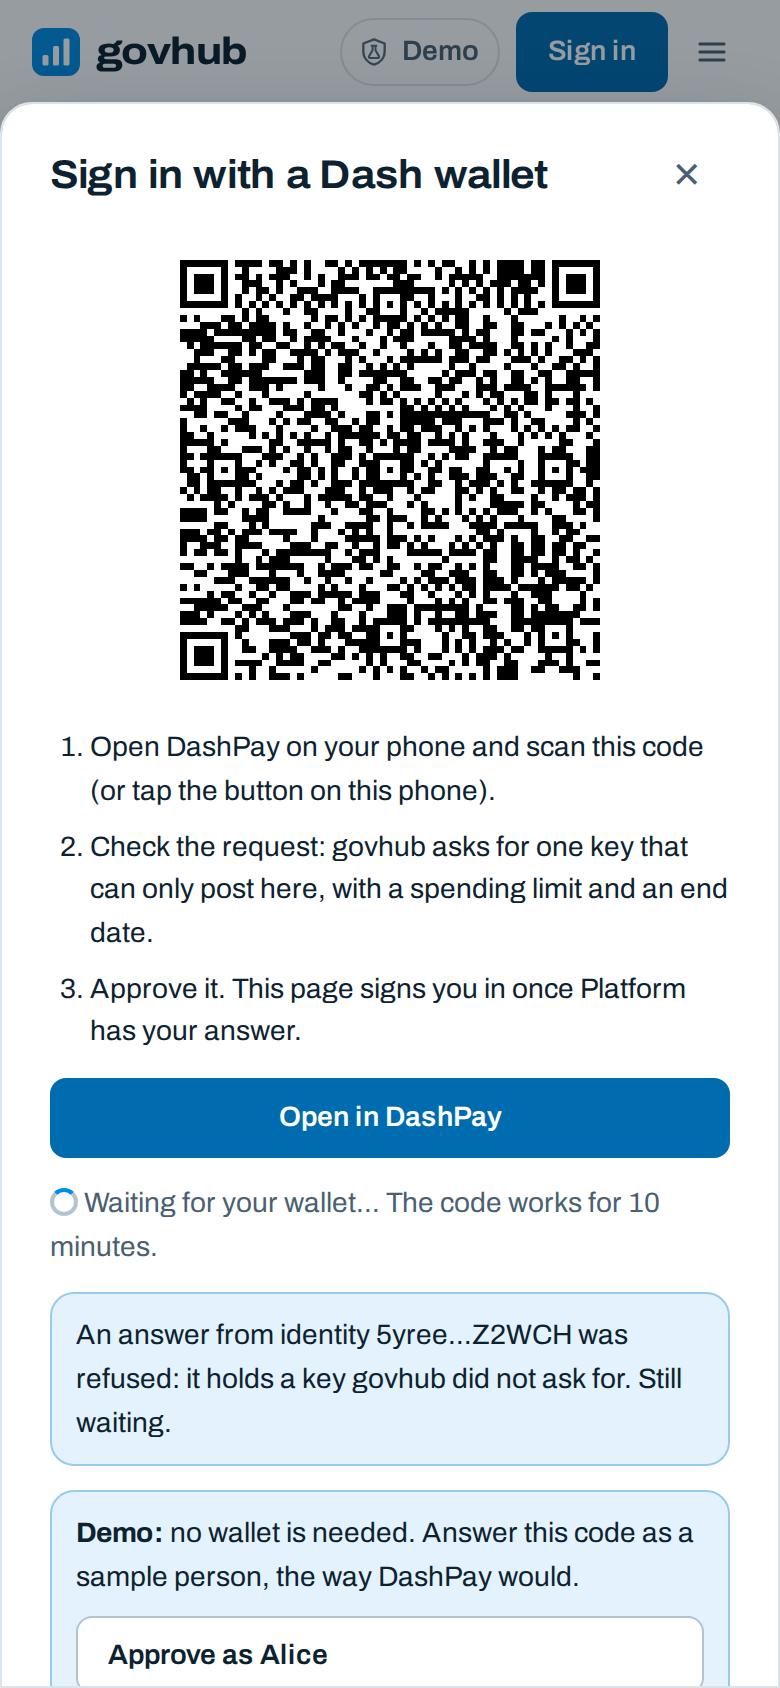
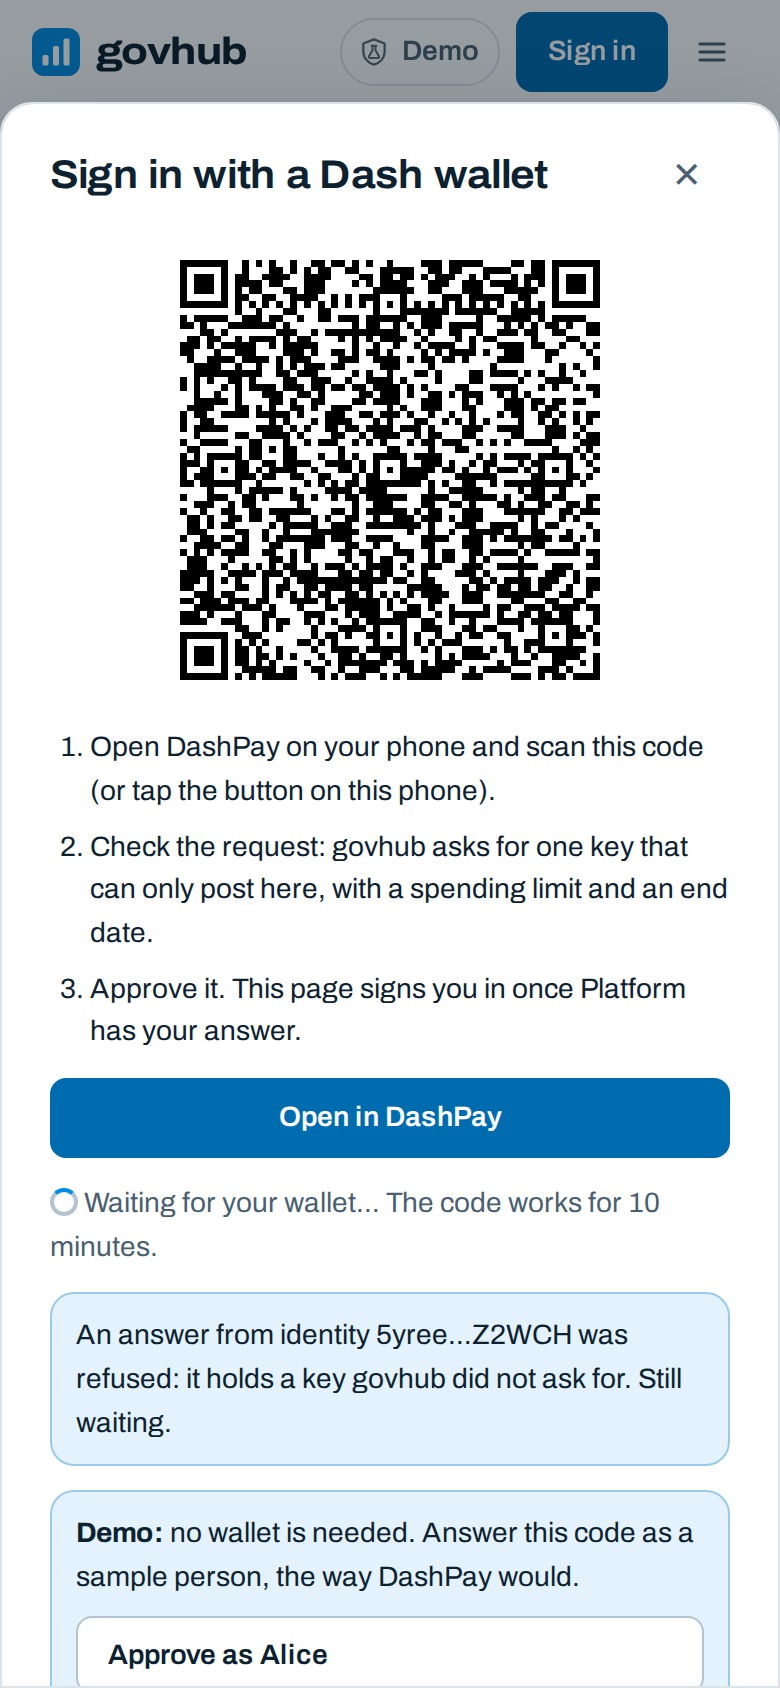
fix(auth): keep wallet sign-ins out of the badge flow; sturdier polling
A wallet key cannot write the badge contract, so a badge requested with it
would leave the issued token stranded: wallet sessions now get a notice on the
badge page and the badge switch, and no requests run. The keyring unlock card
says why a wallet sign-in cannot open it.

Polling checks each candidate on its own (one that throws no longer holds up
the rest), wipes grants that land after it stopped, keeps answers already
shown when the code expires, and ignores identities the user declined.

Changed region(s): [[0.2154, 0.154, 0.7692, 0.4005]]

diff --git a/apps/web/src/auth/WalletSignIn.tsx b/apps/web/src/auth/WalletSignIn.tsx
@@ -78,6 +78,8 @@ export default function WalletSignIn() {
   const [trouble, setTrouble] = useState<string | null>(null);
   const poller = useRef<Poller | null>(null);
   const grantsRef = useRef<Grant[]>([]);
+  // identities the user said "Not me" to: a fresh answer from them is not shown again for this code
+  const declined = useRef(new Set<string>());
   grantsRef.current = grants;
   const network = registry.platformNetwork;
   const contractId = registry.forum.contractId;
@@ -89,6 +91,7 @@ export default function WalletSignIn() {
     setGrants([]);
     setNote(null);
     setTrouble(null);
+    declined.current = new Set();
     (async () => {
       // fixture mode: a simulated wallet and Platform (walletDemo.ts) answer instead
       const wallet = demo ? demoWallet() : null;
@@ -102,7 +105,10 @@ export default function WalletSignIn() {
         appEphemeralPrivateKey: req.appEphemeralPrivateKey,
         port,
         onEvent(e) {
-          if (!live) return;
+          if (!live || (e.type === 'grant' && declined.current.has(e.grant.identityId))) {
+            if (e.type === 'grant') wipeGrant(e.grant);
+            return;
+          }
           if (e.type === 'grant') {
             setTrouble(null);
             // an identity that answers again (a second tap in the wallet) replaces its earlier answer
@@ -169,6 +175,7 @@ export default function WalletSignIn() {
     [auth, network, demo, forum.store, forumSignIn],
   );
   const decline = (g: Grant) => {
+    declined.current.add(g.identityId);
     wipeGrant(g);
     setGrants((l) => l.filter((x) => x !== g));
   };
@@ -178,18 +185,6 @@ export default function WalletSignIn() {
       <p className="muted" data-testid="wallet-starting">
         <span className="spinner" aria-hidden="true" /> Connecting to Dash Platform…
       </p>
-    );
-  }
-  if (phase.kind === 'failed') {
-    return (
-      <div className="wallet-signin" data-testid="wallet-failed">
-        <p className="error" role="alert">
-          {phase.message}
-        </p>
-        <button type="button" className="btn btn-primary" onClick={() => setAttempt((n) => n + 1)}>
-          Try again
-        </button>
-      </div>
     );
   }
   if (grants.length) {
@@ -223,6 +218,19 @@ export default function WalletSignIn() {
           })}
         </ul>
         <p className="small muted">Only continue if this is the identity you just approved in your wallet: anyone who sees a sign-in code can answer it.</p>
+        <p className="small muted">The sign-in lasts while this tab is open. A reload or another tab asks your wallet again.</p>
+      </div>
+    );
+  }
+  if (phase.kind === 'failed') {
+    return (
+      <div className="wallet-signin" data-testid="wallet-failed">
+        <p className="error" role="alert">
+          {phase.message}
+        </p>
+        <button type="button" className="btn btn-primary" onClick={() => setAttempt((n) => n + 1)}>
+          Try again
+        </button>
       </div>
     );
   }

diff --git a/apps/web/src/badge/context.tsx b/apps/web/src/badge/context.tsx
@@ -11,7 +11,7 @@ import { parsePrivacyMode, type PrivacyMode } from '@govhub/badge';
 import { signMessageWif } from '@govhub/verify';
 import { useApp } from '../app/context.tsx';
 import { useForum } from '../app/forum.tsx';
-import type { AppAuthSession } from '../session/authSession.ts';
+import { isWalletSession, WALLET_BADGE_TEXT, type AppAuthSession } from '../session/authSession.ts';
 import { BADGE_NETWORKS, loadTrustList, resetTrustList, saveTrustList, type TrustedIssuer } from './config.ts';
 import { createJob, isActive, type BadgeJob, type ClientDeps, type VotingSigner } from './client.ts';
 import { badgeQuery, badgesOfAuthors } from './queries.ts';
@@ -148,7 +148,8 @@ export function BadgeProvider({ children }: { children: ReactNode }) {
   const authSession = session && 'auth' in session ? (session as AppAuthSession) : null;
 
   const deps = useMemo<ClientDeps | null>(() => {
-    if (!reader || !session) return null;
+    // a wallet key cannot write the badge contract: no requests, so no token is ever issued that it could not post
+    if (!reader || !session || isWalletSession(session)) return null;
     return {
       net,
       contractId,
@@ -271,7 +272,7 @@ export function BadgeProvider({ children }: { children: ReactNode }) {
     async (voting, proTxHash, opts = {}) => {
       const commit = commitRef.current;
       if (storeError) throw new Error(storeError);
-      if (!deps || !reader || !commit) throw new Error(mode === 'live' ? 'Sign in to request a badge.' : 'Badges need live data (Settings).');
+      if (!deps || !reader || !commit) throw new Error(mode !== 'live' ? 'Badges need live data (Settings).' : isWalletSession(session) ? WALLET_BADGE_TEXT : 'Sign in to request a badge.');
       const issuer = opts.issuer ?? trust.find((t) => t.enabled);
       if (!issuer) throw new Error('Your trust list has no enabled issuer.');
       const height = await reader.coreHeight();
@@ -283,7 +284,7 @@ export function BadgeProvider({ children }: { children: ReactNode }) {
       if (job.mode === 'standard') wakeRef.current();
       return job;
     },
-    [deps, reader, trust, mode, storeError, privacy],
+    [deps, reader, trust, mode, storeError, privacy, session],
   );
 
   const registerVotingSigner = useCallback((proTxHash: string, signer: VotingSigner) => {

diff --git a/packages/auth/test/appconnect-verify.test.ts b/packages/auth/test/appconnect-verify.test.ts
@@ -288,6 +288,34 @@ describe('startPolling', () => {
     expect(ev2).toEqual([{ type: 'rejected', ownerId: ALICE, reason: 'key-not-found' }]);
   });
 
+  it('a candidate whose check throws does not hold up the others', async () => {
+    const s = setup();
+    const other = toBase58(new Uint8Array(32).fill(1)); // sorts before ALICE
+    const sealed = sealPayload({ appEphemeralPubKey: s.request.appEphemeralPubKey, ownerId: fromBase58(other), slots: [secp256k1.utils.randomSecretKey()] });
+    s.f.setResponses([s.candidate, { ownerId: other, ...sealed }]);
+    const port: AppConnectPort = { ...s.f.port, identityKeys: async (id) => (id === other ? Promise.reject(new Error('odd answer')) : s.f.port.identityKeys(id)) };
+    const c = clock(NOW);
+    const events: PollEvent[] = [];
+    startPolling({ request: s.request, appEphemeralPrivateKey: s.login.appEphemeralPrivateKey, port, onEvent: (e) => events.push(e), ...c });
+    await c.advance(0);
+    expect(events.map((e) => e.type)).toEqual(['error', 'grant']);
+  });
+
+  it('wipes a grant that finishes verifying after stop()', async () => {
+    const s = setup();
+    s.f.setResponses([s.candidate]);
+    let release!: () => void;
+    const gate = new Promise<void>((r) => (release = r));
+    const port: AppConnectPort = { ...s.f.port, remainingBudgets: async (id, k) => (await gate, s.f.port.remainingBudgets(id, k)) };
+    const events: PollEvent[] = [];
+    const p = startPolling({ request: s.request, appEphemeralPrivateKey: s.login.appEphemeralPrivateKey, port, onEvent: (e) => events.push(e), ...clock(NOW) });
+    await settle();
+    p.stop();
+    release();
+    await settle();
+    expect(events).toEqual([]);
+  });
+
   it('reports read errors and keeps polling; stop() ends it', async () => {
     const s = setup();
     let fail = true;

diff --git a/apps/web/src/auth/appConnect.test.tsx b/apps/web/src/auth/appConnect.test.tsx
@@ -3,7 +3,7 @@
 import { storageFundingStore, makeSession } from '@govhub/auth';
 import { afterEach, beforeEach, describe, expect, it, vi } from 'vitest';
 import { appConnectEnabled, appConnectOptIn, PROFILES, PROFILE_ORDER, profileRegistry } from '../config/registry.ts';
-import { appSessionFromAuth } from '../session/authSession.ts';
+import { appSessionFromAuth, isWalletSession } from '../session/authSession.ts';
 import { button, click, render } from '../test/render.tsx';
 
 const auth = vi.hoisted(() => ({ value: {} as Record<string, unknown> }));
@@ -97,6 +97,10 @@ describe('a wallet session', () => {
     const writeDocument = vi.fn(async () => ({ id: 'x', revision: 1 }));
     const app = appSessionFromAuth(s, async () => ({ writeDocument }) as never);
     expect(app.label).toBe('Dash wallet, key 7 (HIGH)');
+    // what closes the badge flow and the other key-dependent views to it
+    expect(isWalletSession(app)).toBe(true);
+    expect(isWalletSession(appSessionFromAuth({ ...s, source: 'seed' } as never, async () => ({}) as never))).toBe(false);
+    expect(isWalletSession(null)).toBe(false);
     await expect(app.signAndBroadcastDocument({ action: 'create', contractId: 'BqszMpFvXm11jWeUYRqQu2yREZi7EzgkFfDKZR9dqamq', type: 'mnBadge', data: {} })).rejects.toThrow(/can only write govhub comments/);
     expect(writeDocument).not.toHaveBeenCalled();
     await app.signAndBroadcastDocument({ action: 'create', contractId: forum, type: 'comment', data: {} });

diff --git a/packages/auth/src/appconnect/poll.ts b/packages/auth/src/appconnect/poll.ts
@@ -5,6 +5,7 @@ import { sha256 } from '@noble/hashes/sha2.js';
 import { requestHash, type ConnectRequest } from './codec.ts';
 import type { AppConnectPort, Candidate } from './port.ts';
 import { verifyCandidate, type Grant, type RejectReason } from './verify.ts';
+import { wipeGrant } from './login.ts';
 
 export const PAGE_SIZE = 10;
 export const MAX_CANDIDATES = 20;
@@ -90,6 +91,7 @@ export function startPolling(o: {
 
   const emit = (e: PollEvent) => {
     if (!stopped) o.onEvent(e);
+    else if (e.type === 'grant') wipeGrant(e.grant);
   };
   const giveUp = (why: 'expired' | 'too-many') => {
     emit({ type: 'gave-up', why });
@@ -117,7 +119,14 @@ export function startPolling(o: {
         if (stopped) return;
         const k = candidateKey(c);
         if (done.has(k)) continue;
-        const v = await verifyCandidate({ request: o.request, appEphemeralPrivateKey: o.appEphemeralPrivateKey, candidate: c, port: o.port });
+        let v: Awaited<ReturnType<typeof verifyCandidate>>;
+        try {
+          v = await verifyCandidate({ request: o.request, appEphemeralPrivateKey: o.appEphemeralPrivateKey, candidate: c, port: o.port });
+        } catch (error) {
+          // a failed read for one candidate never holds up the others; it is looked at again next round
+          emit({ type: 'error', error });
+          continue;
+        }
         if (v.ok) {
           done.add(k);
           emit({ type: 'grant', grant: v.grant });

diff --git a/apps/web/src/badge/flow.ts b/apps/web/src/badge/flow.ts
@@ -6,6 +6,7 @@ import { clientPostingWindow, displayWindow, EPOCH_PARAMS, epochOf, epochStart, 
 import { encodeWif } from '@govhub/verify';
 import { useApp } from '../app/context.tsx';
 import { useForum } from '../app/forum.tsx';
+import { isWalletSession, WALLET_BADGE_TEXT } from '../session/authSession.ts';
 import { errText, formatInt } from '../lib/format.ts';
 import { assertUsableKey, type OwnedMasternode } from '../voting/masternodes.ts';
 import { checkKeyAvailability, etaSeconds, isActive, isHeld, lapseHeight, nearLapse, type BadgeJob, type KeyAvailability } from './client.ts';
@@ -239,6 +240,7 @@ export function useMnBadge(): MnBadge {
   let unusableText: string | null = null;
   if (mode !== 'live' || !ctx.contractId || !ctx.reader) unusableText = 'MN badges need live data on a network where the badge contract is deployed (testnet for now).';
   else if (!session) unusableText = 'Sign in to get an MN badge.';
+  else if (isWalletSession(session)) unusableText = WALLET_BADGE_TEXT;
   else if (!issuer) unusableText = 'Your list of badge issuers has none turned on (Settings).';
   const ready = availability?.state === 'ready' ? readiness(availability.av, ctx.privacy, p) : null;
   const [cancelled, setCancelled] = useState<string | null>(null);

diff --git a/apps/web/e2e/app-connect.spec.ts b/apps/web/e2e/app-connect.spec.ts
@@ -66,12 +66,15 @@ for (const [vp, size] of [
       expect(errors).toEqual([]);
     });
 
-    test('flag on: "Not me" drops the answer and keeps waiting', async ({ page }) => {
+    test('flag on: "Not me" drops the answer, ignores that identity\'s next answer, and keeps waiting', async ({ page }) => {
       await gotoFixtures(page, '/?appconnect=1');
       await openSheet(page);
       await page.getByTestId('wallet-signin').click();
       await page.getByRole('button', { name: 'Approve as Alice' }).click();
       await page.getByTestId('wallet-not-me').click();
+      await expect(page.getByTestId('wallet-waiting')).toBeVisible();
+      await page.getByRole('button', { name: 'Approve as Alice' }).click();
+      await page.waitForTimeout(3_000);
       await expect(page.getByTestId('wallet-waiting')).toBeVisible();
       await expect(page.getByTestId('session-button')).toHaveText('Sign in');
     });

diff --git a/apps/web/src/badge/BadgePage.tsx b/apps/web/src/badge/BadgePage.tsx
@@ -8,6 +8,7 @@ import { useApp } from '../app/context.tsx';
 import { useForum } from '../app/forum.tsx';
 import { errText, formatInt } from '../lib/format.ts';
 import { openSignIn } from '../ui/SignIn.tsx';
+import { isWalletSession, WALLET_BADGE_TEXT } from '../session/authSession.ts';
 import { BadgeLeaks, PolicyLink } from './BadgeLeaks.tsx';
 import { isActive, isHeld, lapseHeight, nearLapse, requestWindow, type BadgeJob } from './client.ts';
 import { useBadgeCtx } from './context.tsx';
@@ -175,6 +176,10 @@ export function BadgePage() {
             Sign in
           </button>{' '}
           with the identity that should show the badge.
+        </p>
+      ) : isWalletSession(session) ? (
+        <p className="notice-box" data-testid="badge-wallet-session">
+          {WALLET_BADGE_TEXT}
         </p>
       ) : (
         <div className="form">

diff --git a/apps/web/src/session/authSession.ts b/apps/web/src/session/authSession.ts
@@ -12,6 +12,12 @@ export interface AppAuthSession extends Session {
   readonly auth: AuthSession;
 }
 
+/** A wallet (App Connect) sign-in: its key is bound to the forum contract, so it cannot post badges or anything else outside it. */
+export const isWalletSession = (s: Session | null | undefined): boolean => (s as Partial<AppAuthSession> | null | undefined)?.auth?.source === 'wallet';
+
+/** Why a wallet sign-in cannot get an MN badge. */
+export const WALLET_BADGE_TEXT = 'MN badges need a sign-in with your recovery phrase or key: a wallet sign-in can only write govhub comments, reactions and posts.';
+
 export function appSessionFromAuth(auth: AuthSession, platform: () => Promise<PlatformPort>): AppAuthSession {
   return {
     auth,

diff --git a/apps/web/src/pages/MasternodesPage.tsx b/apps/web/src/pages/MasternodesPage.tsx
@@ -98,6 +98,11 @@ function Unlock({ onMemoryOnly }: { onMemoryOnly(): void }) {
           You signed in with a pasted key, which cannot open a saved keyring. Use your recovery phrase or a passkey, or memory-only keys.
         </p>
       )}
+      {session?.source === 'wallet' && (
+        <p className="small muted" data-testid="keyring-wallet">
+          You signed in with your Dash wallet, which cannot open a saved keyring. Use your recovery phrase or a passkey, or memory-only keys.
+        </p>
+      )}
       {!passkeyNot && (
         <button type="button" className="btn btn-primary" onClick={() => void k.unlockWithPasskey().catch(() => {})} disabled={!!k.busy}>
           Unlock with a passkey

diff --git a/docs/app-connect.md b/docs/app-connect.md
@@ -47,12 +47,16 @@ reactions, posts, profiles and block lists, and nothing else: no credit transfer
    unbound, of another purpose or unrequested; the primary binding is granted; nothing expires within an hour of the latest block
    time and the budget has credits left. A key the page's node does not show yet is looked for again for 30 seconds.
 4. Asks "Continue as <DPNS name or id>?" with the budget and the expiry, because anyone who sees a request can answer it. Several
-   identities answering are listed to choose from; "Not me" drops one.
+   identities answering are listed to choose from; "Not me" drops one and ignores its later answers to the same code. Answers
+   already shown stay on screen if the code then expires or gets flooded.
 5. Signs in with the session key through the existing document writer. The key stays in the tab's memory; it is not shared with
-   other tabs (they rebuild sessions through key sign-in, which refuses bound keys) and is wiped on sign-out.
+   other tabs (they rebuild sessions through key sign-in, which refuses bound keys) and is wiped on sign-out. So a reload or a
+   second tab asks the wallet again, and registers another key on the identity; the wallet may retire the previous one, since
+   every tab of a browser sends the same `CONNECTION_ID`.
 
 A wallet session cannot top up, add a passkey, pay for or submit a proposal (each derives from or stores the signing key, which is
-temporary), or post a masternode badge (another contract). Those views say why instead, and a write to any contract but the forum
+temporary), request a masternode badge (it posts to the badge contract, so the token could never be posted), or open a saved
+masternode keyring. Those views say why instead, and a write to any contract but the forum
 is refused before it reaches Platform, so a misrouted write never spends the key's budget.
 
 Fixture mode (`?fixtures=1&appconnect=1`) answers the request with a simulated wallet through the real verifier, for demos and the
